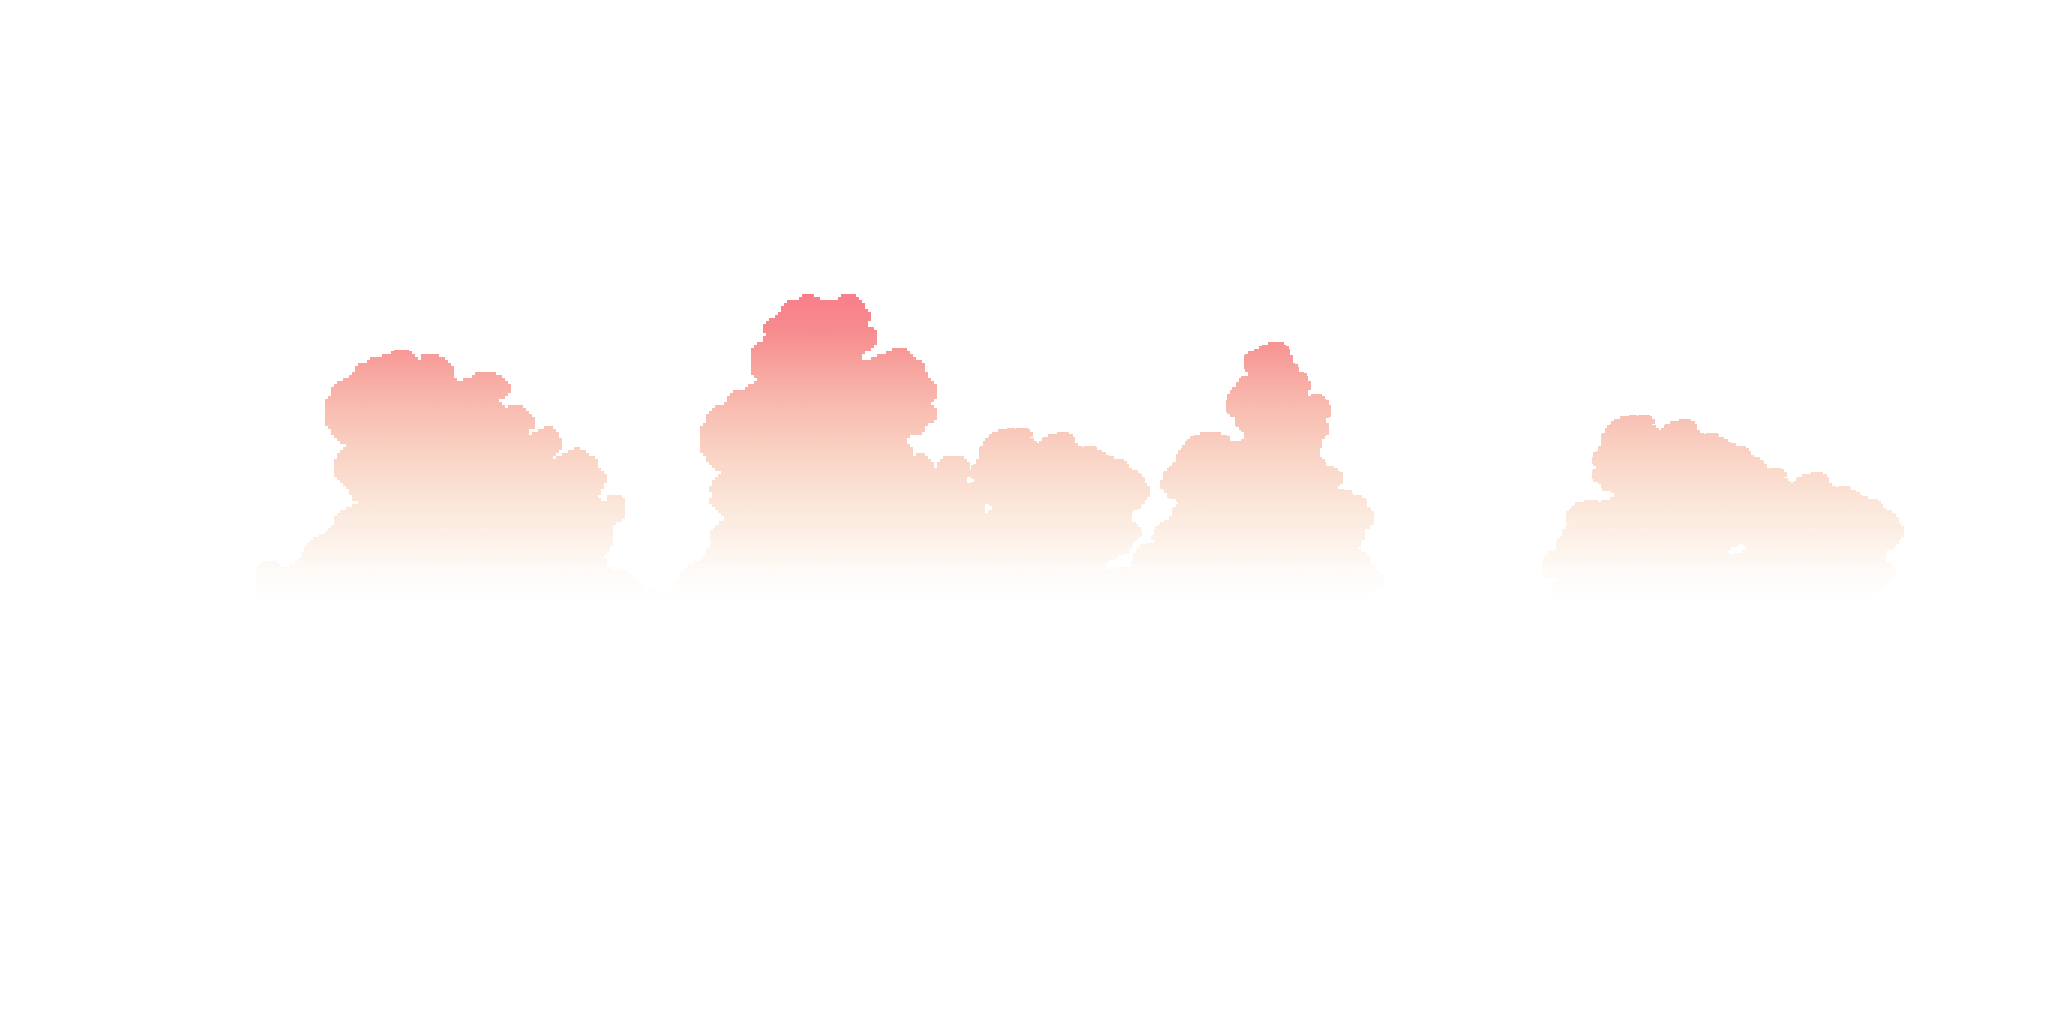
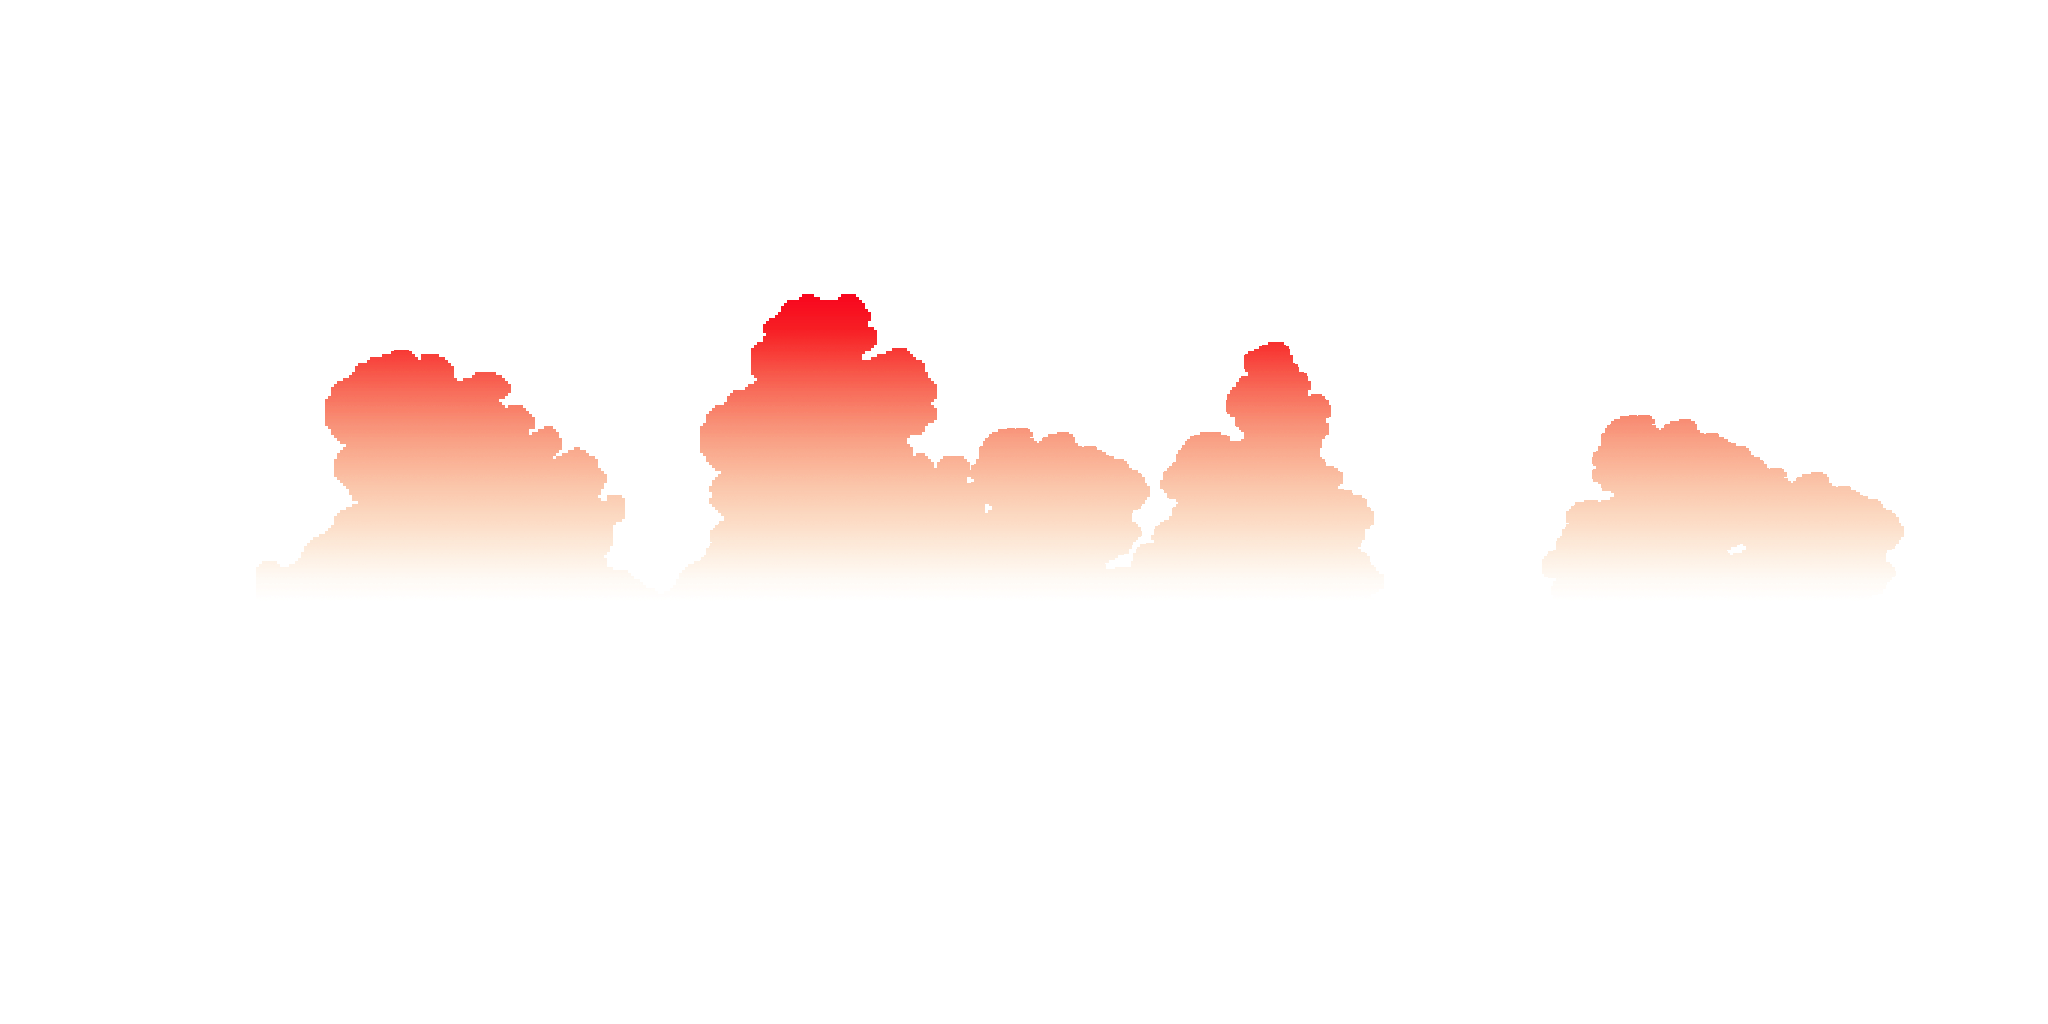
feeling fuzzy inside

Changed region(s): [[0.3438, 0.2812, 0.6875, 0.5312], [0.1562, 0.3438, 0.3125, 0.5312], [0.75, 0.4062, 0.9375, 0.5312]]

diff --git a/src/materials/animatedHeightMist.ts b/src/materials/animatedHeightMist.ts
@@ -1,0 +1,158 @@
+import * as THREE from "three";
+
+type HeightMistOptions = {
+  yBottom?: number;
+  yTop?: number;
+  maxOpacity?: number;
+  color?: THREE.Color | number | string;
+  noiseScale?: number;
+  noiseStrength?: number;
+  noiseScroll?: THREE.Vector3 | { x: number; y: number; z: number };
+};
+
+export function applyAnimatedHeightMistToStandardMaterial(
+  material: THREE.MeshStandardMaterial,
+  {
+    yBottom = -10,
+    yTop = 5,
+    maxOpacity = 0.3,
+    color = 0xffffff,
+    noiseScale = 0.02,
+    noiseStrength = 0.65,
+    noiseScroll = { x: 0.0, y: 0.02, z: 0.0 },
+  }: HeightMistOptions = {}
+) {
+  const mistColor =
+    color instanceof THREE.Color ? color.clone() : new THREE.Color(color);
+
+  const scroll =
+    noiseScroll instanceof THREE.Vector3
+      ? noiseScroll.clone()
+      : new THREE.Vector3(noiseScroll.x, noiseScroll.y, noiseScroll.z);
+
+  if (material.userData.__heightMistPatched) {
+    material.userData.__heightMistUniforms.uMistYBottom.value = yBottom;
+    material.userData.__heightMistUniforms.uMistYTop.value = yTop;
+    material.userData.__heightMistUniforms.uMistMaxOpacity.value = maxOpacity;
+    material.userData.__heightMistUniforms.uMistColor.value.copy(mistColor);
+    material.userData.__heightMistUniforms.uMistNoiseScale.value = noiseScale;
+    material.userData.__heightMistUniforms.uMistNoiseStrength.value = noiseStrength;
+    material.userData.__heightMistUniforms.uMistNoiseScroll.value.copy(scroll);
+    return;
+  }
+
+  const mistUniforms = {
+    uMistYBottom: { value: yBottom },
+    uMistYTop: { value: yTop },
+    uMistMaxOpacity: { value: maxOpacity },
+    uMistColor: { value: mistColor },
+    uMistTime: { value: 0 },
+    uMistNoiseScale: { value: noiseScale },
+    uMistNoiseStrength: { value: noiseStrength },
+    uMistNoiseScroll: { value: scroll },
+  };
+
+  material.userData.__heightMistPatched = true;
+  material.userData.__heightMistUniforms = mistUniforms;
+
+  material.onBeforeCompile = (shader) => {
+    Object.assign(shader.uniforms, mistUniforms);
+
+    shader.vertexShader = shader.vertexShader
+      .replace(
+        `#include <common>`,
+        `#include <common>
+         varying vec3 vHeightMistWorldPosition;`
+      )
+      .replace(
+        `#include <worldpos_vertex>`,
+        `#include <worldpos_vertex>
+         vHeightMistWorldPosition = (modelMatrix * vec4(transformed, 1.0)).xyz;`
+      );
+
+    shader.fragmentShader = shader.fragmentShader
+      .replace(
+        `#include <common>`,
+        `#include <common>
+         varying vec3 vHeightMistWorldPosition;
+         uniform float uMistYBottom;
+         uniform float uMistYTop;
+         uniform float uMistMaxOpacity;
+         uniform vec3 uMistColor;
+         uniform float uMistTime;
+         uniform float uMistNoiseScale;
+         uniform float uMistNoiseStrength;
+         uniform vec3 uMistNoiseScroll;
+
+         float hash13(vec3 p) {
+           p = fract(p * 0.1031);
+           p += dot(p, p.yzx + 33.33);
+           return fract((p.x + p.y) * p.z);
+         }
+
+         float valueNoise3D(vec3 p) {
+           vec3 i = floor(p);
+           vec3 f = fract(p);
+           f = f * f * (3.0 - 2.0 * f);
+
+           float n000 = hash13(i + vec3(0.0, 0.0, 0.0));
+           float n100 = hash13(i + vec3(1.0, 0.0, 0.0));
+           float n010 = hash13(i + vec3(0.0, 1.0, 0.0));
+           float n110 = hash13(i + vec3(1.0, 1.0, 0.0));
+           float n001 = hash13(i + vec3(0.0, 0.0, 1.0));
+           float n101 = hash13(i + vec3(1.0, 0.0, 1.0));
+           float n011 = hash13(i + vec3(0.0, 1.0, 1.0));
+           float n111 = hash13(i + vec3(1.0, 1.0, 1.0));
+
+           float nx00 = mix(n000, n100, f.x);
+           float nx10 = mix(n010, n110, f.x);
+           float nx01 = mix(n001, n101, f.x);
+           float nx11 = mix(n011, n111, f.x);
+
+           float nxy0 = mix(nx00, nx10, f.y);
+           float nxy1 = mix(nx01, nx11, f.y);
+
+           return mix(nxy0, nxy1, f.z);
+         }
+
+         float fbm3(vec3 p) {
+           float value = 0.0;
+           float amplitude = 0.5;
+           for (int i = 0; i < 4; i++) {
+             value += valueNoise3D(p) * amplitude;
+             p *= 2.02;
+             amplitude *= 0.5;
+           }
+           return value;
+         }`
+      )
+      .replace(
+        `#include <dithering_fragment>`,
+        `
+         float mistHeight = clamp(
+           1.0 - smoothstep(uMistYBottom, uMistYTop, vHeightMistWorldPosition.y),
+           0.0,
+           1.0
+         );
+
+         vec3 mistNoisePos =
+           vHeightMistWorldPosition * uMistNoiseScale +
+           uMistNoiseScroll * uMistTime;
+
+         float noiseA = fbm3(mistNoisePos);
+         float noiseB = fbm3(mistNoisePos * 1.9 + vec3(17.3, 9.2, 5.7));
+         float noise = mix(noiseA, noiseB, 0.35);
+
+         float densityMask = mix(1.0, noise, uMistNoiseStrength);
+
+         float mistAlpha = mistHeight * densityMask * uMistMaxOpacity;
+
+         gl_FragColor.rgb = mix(gl_FragColor.rgb, uMistColor, mistAlpha);
+
+         #include <dithering_fragment>
+        `
+      );
+  };
+
+  material.needsUpdate = true;
+}

diff --git a/src/components/VoxelViewer/VoxelViewer.tsx b/src/components/VoxelViewer/VoxelViewer.tsx
@@ -60,8 +60,8 @@ const PLAY_SKY_ROT_SPEED_1 = 0.005;
 const PLAY_SKY_ROT_SPEED_2 = 0.01;
 const PLAY_SKY_ROT_SPEED_3 = 0.018;
 
-const CLOUD_LIGHT_START_Y = 50;
-const CLOUD_LIGHT_FULL_Y = 400;
+const CLOUD_LIGHT_START_Y = 125;
+const CLOUD_LIGHT_FULL_Y = 450;
 const CLOUD_LIGHT_MAX_INTENSITY = 25.0;
 
 const DRIVABLE_MARKETPLACE_IDS = new Set([
@@ -292,7 +292,7 @@ export default function VoxelViewer(props: {
         applyHeightMistToStandardMaterial(clonedMat, {
           yBottom: -60,
           yTop: 200,
-          maxOpacity: 0.45,
+          maxOpacity: 0.7,
           color: 0xffffff,
         });
     
@@ -668,7 +668,7 @@ export default function VoxelViewer(props: {
         transparent: true,
         depthWrite: false,
         fog: false,
-        blending: THREE.AdditiveBlending,
+        blending: THREE.NormalBlending,
         opacity: 0,
         toneMapped: false,
       });
@@ -719,7 +719,7 @@ export default function VoxelViewer(props: {
         transparent: true,
         depthWrite: false,
         fog: false,
-        blending: THREE.AdditiveBlending,
+        blending: THREE.NormalBlending,
         opacity: 0,
         toneMapped: false,
       });
@@ -770,7 +770,7 @@ export default function VoxelViewer(props: {
         transparent: true,
         depthWrite: false,
         fog: false,
-        blending: THREE.AdditiveBlending,
+        blending: THREE.NormalBlending,
         opacity: 0,
       });
     
@@ -938,16 +938,16 @@ export default function VoxelViewer(props: {
       
         if (playSkyWarm1Ref.current) {
           const mat = playSkyWarm1Ref.current.material as THREE.MeshBasicMaterial;
-          mat.opacity = eased * 0.12;
+          mat.opacity = eased * 0.15;
         }        
         if (playSkyWarm2Ref.current) {
           const mat = playSkyWarm2Ref.current.material as THREE.MeshBasicMaterial;
-          mat.opacity = eased * 0.16;
+          mat.opacity = eased * 0.1;
         }        
-        // if (playSkyWarm3Ref.current) {
-        //   const mat = playSkyWarm3Ref.current.material as THREE.MeshBasicMaterial;
-        //   mat.opacity = eased * 0.2;
-        // }
+        if (playSkyWarm3Ref.current) {
+          const mat = playSkyWarm3Ref.current.material as THREE.MeshBasicMaterial;
+          mat.opacity = eased * 0.15;
+        }
         cloudWarmHemi.intensity = eased * 8.2;
         cloudSun.intensity = eased * CLOUD_LIGHT_MAX_INTENSITY;
         hemi.intensity = THREE.MathUtils.lerp(3.0, 2.0, eased);
@@ -1211,7 +1211,7 @@ export default function VoxelViewer(props: {
             applyHeightMistToStandardMaterial(material, {
               yBottom: -60,
               yTop: 200,
-              maxOpacity: 0.45,
+              maxOpacity: 0.7,
               color: 0xffffff,
             });
 
